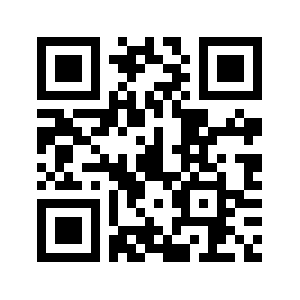
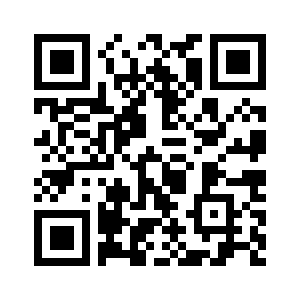
Cap nhat :. QRCODe xu li.

diff --git a/src/main/java/org/example/ilib/Processor/QRCodeAuto.java b/src/main/java/org/example/ilib/Processor/QRCodeAuto.java
@@ -13,19 +13,19 @@ import java.io.IOException;
 public class QRCodeAuto {
 
     public static String taoQrCode(String path) throws IOException, WriterException {
-        String data = path; // URL hoặc thông tin giao dịch
+        String data = path; // Dữ liệu bạn muốn mã hóa trong QR Code
         int size = 300;
 
-        // Đường dẫn tới thư mục org/assets trong thư mục gốc của dự án
-        String resourcePath = "org" + File.separator + "assets";
+        // Đường dẫn đến thư mục chứa ảnh
+        String resourcePath = "src/main/resources/org/assets";
         File directory = new File(resourcePath);
 
-        // Kiểm tra và tạo thư mục nếu chưa tồn tại
+        // Kiểm tra nếu thư mục chưa tồn tại thì tạo mới
         if (!directory.exists()) {
             directory.mkdirs(); // Tạo thư mục nếu chưa tồn tại
         }
 
-        // Lưu file mã QR
+        // Lưu file mã QR vào thư mục
         File outputFile = new File(directory, "qrcode.png");
         BitMatrix bitMatrix = new QRCodeWriter().encode(data, BarcodeFormat.QR_CODE, size, size);
         BufferedImage image = new BufferedImage(size, size, BufferedImage.TYPE_INT_RGB);
@@ -36,10 +36,9 @@ public class QRCodeAuto {
             }
         }
 
-        // Ghi file mã QR vào thư mục đã chỉ định
         ImageIO.write(image, "png", outputFile);
 
-        // Trả về đường dẫn với định dạng "org/assets/qrcode.png"
-        return "/org/assets/qrcode.png";
+        return "file:" + outputFile.getAbsolutePath(); // Trả về đường dẫn đầy đủ
     }
+
 }

diff --git a/src/main/java/org/example/ilib/Controller/ControllerCart.java b/src/main/java/org/example/ilib/Controller/ControllerCart.java
@@ -105,19 +105,22 @@ public class ControllerCart implements Initializable {
 
     @FXML
     void BuyQRclick(MouseEvent event) {
-        if(!isTotalCalculated){
-            showErrAndEx.showAlert("Vui lòng nhấn tổng tiền đề thanh toán");
-        } else if(totalMonet == 0){
+        if (!isTotalCalculated) {
+            showErrAndEx.showAlert("Vui lòng nhấn tổng tiền để thanh toán");
+        } else if (totalMonet == 0) {
             showErrAndEx.showAlert("Số tiền thanh toán không hợp lệ");
-        } else{
-            try {QRCode.setImage(new Image(getClass().getResourceAsStream(QRCodeAuto.taoQrCode("Thanh toán thành công"))));}
-            catch (IOException e){
-                e.printStackTrace();
-            } catch (WriterException e){
+        } else {
+            try {
+                String path = "The amount paid is: " + String.valueOf(totalMonet) + " USD \n Have a nice day!";
+                // Tạo mã QR và lấy đường dẫn
+                String qrImagePath = QRCodeAuto.taoQrCode(path);
+
+                // Đặt hình ảnh QR vào ImageView
+                QRCode.setImage(new Image(qrImagePath));
+            } catch (IOException | WriterException e) {
                 e.printStackTrace();
             }
         }
-
     }
 
     @FXML
